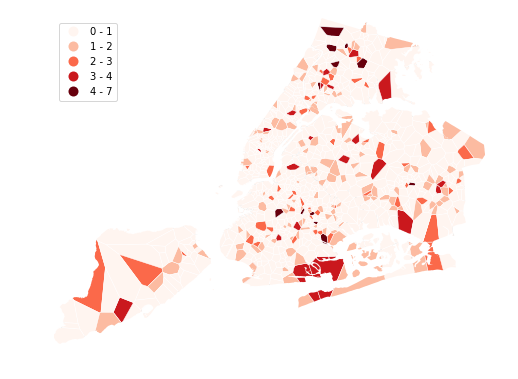
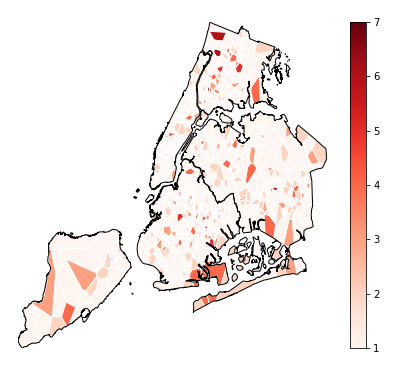
Update Voronoi API reference. (#119)

diff --git a/geoplot/geoplot.py b/geoplot/geoplot.py
@@ -1773,10 +1773,13 @@ def voronoi(
     The `Voronoi region <https://en.wikipedia.org/wiki/Voronoi_diagram>`_ of an point is the set
     of points which is closer to that point than to any other observation in a dataset. A Voronoi
     diagram is a space-filling diagram that constructs all of the Voronoi regions of a dataset and
-    plots them. 
-    
+    plots them.
+
     Voronoi plots are efficient for judging point density and, combined with colormap, can be used
     to infer regional trends in a set of data.
+
+    Due to limitations with ``matplotlib``, ``voronoi`` diagrams in ``geoplot`` are limited in size
+    to a few thousand polygons.
 
     A basic ``voronoi`` specifies some point data. We overlay geometry to aid interpretability.
 
@@ -1787,44 +1790,51 @@ def voronoi(
 
     .. image:: ../figures/voronoi/voronoi-simple.png
 
-    ``hue`` parameterizes the color, and ``cmap`` controls the colormap.
+    Use ``clip`` to clip the result to surrounding geometry. This is recommended in most cases.
+    Note that if the clip geometry is complicated, this operation will take a long time; consider
+    simplifying complex geometries with ``simplify`` to speed it up.
 
     .. code-block:: python
 
         ax = gplt.voronoi(
-            injurious_collisions.head(1000), hue='NUMBER OF PERSONS INJURED', cmap='Reds'
-        )
-        gplt.polyplot(boroughs, ax=ax)
-
-    .. image:: ../figures/voronoi/voronoi-cmap.png
-
-    Add a ``clip`` of iterable geometries to trim the ``voronoi`` against local geography.
-
-    .. code-block:: python
-
-        ax = gplt.voronoi(
-            injurious_collisions.head(1000), hue='NUMBER OF PERSONS INJURED', cmap='Reds',
-            clip=boroughs
+            injurious_collisions.head(100),
+            clip=boroughs.simplify(0.001), projection=gcrs.AlbersEqualArea()
         )
         gplt.polyplot(boroughs, ax=ax)
 
     .. image:: ../figures/voronoi/voronoi-clip.png
 
-    ``legend`` adds a a ``matplotlib`` `Legend
-    <http://matplotlib.org/api/legend_api.html#matplotlib.legend.Legend>`_. This can be tuned
-    even further using the ``legend_kwargs`` argument. Other keyword parameters are passed to the
-    underlying ``matplotlib``
-    `Polygon patches <http://matplotlib.org/api/patches_api.html#matplotlib.patches.Polygon>`_.
+    Use ``hue`` to add color as a visual variable to the plot. ``cmap`` controls the colormap
+    used. ``legend`` toggles the legend.
 
     .. code-block:: python
 
         ax = gplt.voronoi(
-            injurious_collisions.head(1000), hue='NUMBER OF PERSONS INJURED',
-            cmap='Reds', clip=boroughs,
-            legend=True, legend_kwargs={'loc': 'upper left'},
-            linewidth=0.5, edgecolor='white'
+            injurious_collisions.head(1000), projection=gcrs.AlbersEqualArea(),
+            clip=boroughs.simplify(0.001),
+            hue='NUMBER OF PERSONS INJURED', cmap='Reds',
+            legend=True
         )
         gplt.polyplot(boroughs, ax=ax)
+
+    .. image:: ../figures/voronoi/voronoi-cmap.png
+
+    Keyword arguments that are not part of the ``geoplot`` API are passed to the underlying
+    ``matplotlib``
+    `Polygon patches <http://matplotlib.org/api/patches_api.html#matplotlib.patches.Polygon>`_,
+    which can be used to customize the appearance of the plot. To pass keyword argument to the
+    legend, use the ``legend_kwargs`` argument.
+
+    .. code-block:: python
+
+        ax = gplt.voronoi(
+            injurious_collisions.head(1000), projection=gcrs.AlbersEqualArea(),
+            clip=boroughs.simplify(0.001),
+            hue='NUMBER OF PERSONS INJURED', cmap='Reds',
+            legend=True,
+            edgecolor='white', legend_kwargs={'loc': 'upper left'}
+        )
+        gplt.polyplot(boroughs, edgecolor='black', zorder=1, ax=ax)
 
     .. image:: ../figures/voronoi/voronoi-kwargs.png
 
@@ -1838,30 +1848,15 @@ def voronoi(
     .. code-block:: python
 
         ax = gplt.voronoi(
-            injurious_collisions.head(1000),
-            hue='NUMBER OF PERSONS INJURED', cmap='Reds', k=5, scheme='fisher_jenks',
-            clip=boroughs,
-            legend=True, legend_kwargs={'loc': 'upper left'},
-            linewidth=0.5, edgecolor='white'
+            injurious_collisions.head(1000), projection=gcrs.AlbersEqualArea(),
+            clip=boroughs.simplify(0.001),
+            hue='NUMBER OF PERSONS INJURED', cmap='Reds', k=None,
+            legend=True,
+            edgecolor='white'
         )
-        gplt.polyplot(boroughs, ax=ax)
+        gplt.polyplot(boroughs, edgecolor='black', zorder=1, ax=ax)
 
     .. image:: ../figures/voronoi/voronoi-scheme.png
-
-    ``geoplot`` will automatically do the right thing if your variable of interest is already
-    `categorical <http://pandas.pydata.org/pandas-docs/stable/categorical.html>`_:
-
-    .. code-block:: python
-
-        ax = gplt.voronoi(
-            injurious_collisions.head(1000), hue='NUMBER OF PERSONS INJURED',
-            cmap='Reds',
-            edgecolor='white', clip=boroughs,
-            linewidth=0.5
-        )
-        gplt.polyplot(boroughs, linewidth=1, ax=ax)
-
-    .. image:: ../figures/voronoi/voronoi-multiparty.png
     """
     class VoronoiPlot(Plot, HueMixin, LegendMixin, ClipMixin):
         def __init__(self, df, **kwargs):
